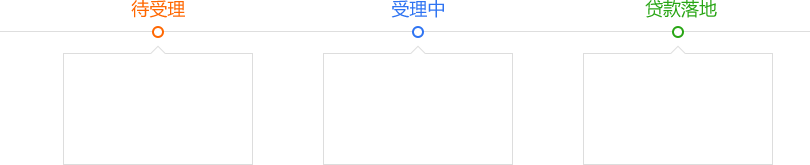
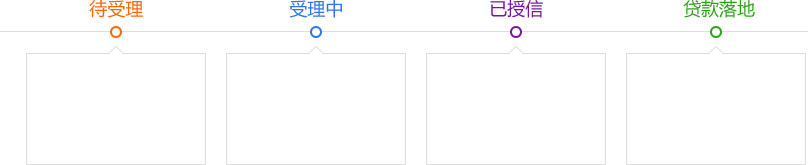
首页统计

diff --git a/web/public/kjd/css/style.css b/web/public/kjd/css/style.css
@@ -223,7 +223,7 @@ body.off .cbg { -webkit-animation: fadeIn 1s linear forwards; }*/
 .t1 { font-size:20px; color: #0180e9; padding: 20px 0 20px 25px;border-bottom: 1px solid #ddd; }
 .mbox .t1 { float: left; width: 150px; }
 .line { border-bottom: 2px solid #0180e9; width:41px; padding-top: 6px;}
-.nbox li { float: left; width: 33.33%;}
+.nbox li { float: left; width: 25%;}
 .nbox li .box { border-right:1px solid #ddd; height: 100%; padding: 20px 0 20px 25px; font-size: 18px; overflow: hidden;}
 .nbox li .box.noborder {border:none;}
 .nbox li .box .c { width:50px; height: 50px; border:1px solid #ffaf87; background: #ffe8d3; color: #ff6701; text-align: center; line-height: 50px; border-radius: 100%; float: left; margin-right: 25px; margin-top: 18px;  }
@@ -239,9 +239,9 @@ body.off .cbg { -webkit-animation: fadeIn 1s linear forwards; }*/
 .xbox .bank { float: left; width: 80px; font-size: 18px; text-align: center; }
 .xbox .bank img { margin-bottom: 5px; margin-top: -12px; }
 .xbox .bdata {float: left; width: 810px; height: 165px; background: url(../images/nbg.png) no-repeat; position: relative;}
-.xbox .bdata .text { position: absolute; width: 712px; height: 110px;left: 64px; top: 54px;}
+.xbox .bdata .text { position: absolute; width: 778px; height: 110px;left: 27px; top: 54px;}
 .xbox .bdata .text ul { margin-right: -70px; }
-.xbox .bdata .text li { float: left; width: 149px; padding: 7px 20px 0 20px; margin-right:70px; }
+.xbox .bdata .text li { float: left; width: 140px; padding: 7px 20px 0 20px; margin-right:20px; }
 .xbox li { margin-bottom: 50px;}
 
 .contwrap{width:49%;display:inline-block;vertical-align:middle;}

diff --git a/views/index/index.php b/views/index/index.php
@@ -83,6 +83,9 @@ use yii\helpers\Url;
                                                 <div class="liwrap"><i class="linkicon linkicon1"></i><span>区域分布</span></div>
                                             </li>
                                             <li>
+                                                <div class="liwrap"><i class="linkicon linkicon3"></i><span>科技企业类型</span></div>
+                                            </li>
+                                            <li>
                                                 <div class="liwrap"><i class="linkicon linkicon2"></i><span>行业分布</span></div>
                                             </li>
                                             <li class="last">
@@ -132,6 +135,30 @@ use yii\helpers\Url;
                                                     </div>
                                                 </div>
                                             </li>
+
+                                            <!-- 科技企业类型 -->
+                                            <li class="showContent">
+                                                <div class="show1">
+                                                    <div class="linkheader"><ul><li><a href="#">科技企业类型</a></li></ul></div>
+                                                    <div class="linkcontent">
+                                                        <div class="slider" style="width:890px;">
+                                                            <ul class="canslider">
+                                                                <li class="areaul">   
+                                                                    <?php foreach ($one_enterprise as $key => $vo): ?>
+                                                                        <div>
+                                                                            <span><?= $vo['name'] ?></span>
+                                                                            <p><?= $vo['count'] ?></p>
+                                                                            <a>查看名单</a>
+                                                                        </div>
+                                                                    <?php endforeach; ?>
+                                                                    <span class="areaulbor"></span>
+                                                                </li>
+                                                            </ul>
+                                                        </div>
+                                                    </div>
+                                                </div>
+                                            </li>
+
                                             <!-- 行业分布 -->
                                             <li class="showContent">
                                                 <div class="show1">
@@ -213,6 +240,9 @@ use yii\helpers\Url;
                                                 <div class="liwrap"><i class="linkicon linkicon1"></i><span>区域分布</span></div>
                                             </li>
                                             <li>
+                                                <div class="liwrap"><i class="linkicon linkicon3"></i><span>科技企业类型</span></div>
+                                            </li>
+                                            <li>
                                                 <div class="liwrap"><i class="linkicon linkicon2"></i><span>行业分布</span></div>
                                             </li>
                                             <li class="last">
@@ -262,6 +292,30 @@ use yii\helpers\Url;
                                                     </div>
                                                 </div>
                                             </li>
+
+                                            <!-- 科技企业类型 -->
+                                            <li class="showContent">
+                                                <div class="show1">
+                                                    <div class="linkheader"><ul><li><a href="#">科技企业类型</a></li></ul></div>
+                                                    <div class="linkcontent">
+                                                        <div class="slider" style="width:890px;">
+                                                            <ul class="canslider">
+                                                                <li class="areaul">   
+                                                                    <?php foreach ($two_enterprise as $key => $vo): ?>
+                                                                        <div>
+                                                                            <span><?= $vo['name'] ?></span>
+                                                                            <p><?= $vo['count'] ?></p>
+                                                                            <a>查看名单</a>
+                                                                        </div>
+                                                                    <?php endforeach; ?>
+                                                                    <span class="areaulbor"></span>
+                                                                </li>
+                                                            </ul>
+                                                        </div>
+                                                    </div>
+                                                </div>
+                                            </li>
+
                                             <!-- 行业分布 -->
                                             <li class="showContent">
                                                 <div class="show1">
@@ -380,8 +434,17 @@ use yii\helpers\Url;
                                                                 </div>
                                                             </li>
                                                             <li>
+                                                                <div class="box">
+                                                                    <div class="c nc3">授信</div>
+                                                                    <div class="text">
+                                                                        <div class="text1">691<span>家</span></div>
+                                                                        <div class="text2">￥5000<span>万</span></div>
+                                                                    </div>
+                                                                </div>
+                                                            </li>
+                                                            <li>
                                                                 <div class="box noborder">
-                                                                    <div class="c nc3">发放</div>
+                                                                    <div class="c nc4">发放</div>
                                                                     <div class="text">
                                                                         <div class="text1">691<span>家</span></div>
                                                                         <div class="text2">￥5000<span>万</span></div>
@@ -406,6 +469,10 @@ use yii\helpers\Url;
                                                                 <div class="bdata">
                                                                     <div class="text">
                                                                         <ul>
+                                                                            <li>
+                                                                                <div class="text1">691<span>家</span></div>
+                                                                                <div class="text2">￥5000<span>万</span></div>
+                                                                            </li>
                                                                             <li>
                                                                                 <div class="text1">691<span>家</span></div>
                                                                                 <div class="text2">￥5000<span>万</span></div>

diff --git a/controllers/IndexController.php b/controllers/IndexController.php
@@ -9,7 +9,9 @@ use app\models\Advert;
 use app\models\WorkflowGroup;
 use app\models\EnterpriseBase;
 use app\models\EnterpriseLoan;
+use app\models\EnterpriseDescribe;
 use app\models\Area;
+use yii\db\Expression;
 
 class IndexController extends CommonController
 {
@@ -39,6 +41,11 @@ class IndexController extends CommonController
         {
             $one_town_list[$key]['count'] = EnterpriseBase::apply_all_statistics(['town_id' => $vo['id']]);
         }
+        $one_enterprise = Yii::$app->params['enterprise'];
+        foreach ($one_enterprise as $key => $vo)
+        {
+            $one_enterprise[$key]['count'] = EnterpriseDescribe::find()->where(new Expression('FIND_IN_SET(' . $vo['id'] . ', enterprise_type)'))->count();
+        }
         $one_industry = Yii::$app->params['industry'];
         foreach ($one_industry as $key => $vo)
         {
@@ -52,6 +59,12 @@ class IndexController extends CommonController
         {
             $two_town_list[$key]['count'] = EnterpriseBase::apply_in_statistics(['wl.group_id' => $this->group_id, 'wl.result' => 'finish', 'eb.town_id' => $vo['id']]);
         }
+        $two_enterprise = Yii::$app->params['enterprise'];
+        foreach ($two_enterprise as $key => $vo)
+        {
+            $base_ids = EnterpriseDescribe::find()->select('base_id')->where(new Expression('FIND_IN_SET(' . $vo['id'] . ', enterprise_type)'))->asArray()->column();
+            $two_enterprise[$key]['count'] = EnterpriseBase::apply_in_statistics(['and', ['wl.group_id' => $this->group_id, 'wl.result' => 'finish'], ['in', 'eb.base_id', $base_ids]]);
+        }
         $two_industry = Yii::$app->params['industry'];
         foreach ($two_industry as $key => $vo)
         {
@@ -64,8 +77,8 @@ class IndexController extends CommonController
         $four_num = EnterpriseLoan::find()->alias('el')->leftJoin('{{%workflow_log}} wl', 'el.base_id=wl.app_id')->where(['wl.group_id' => $this->loan_group_id, 'wl.result' => 'grant'])->count();
         return $this->render("index", [
                     'news' => $news, 'logo' => $logo,
-                    'one_num' => $one_num, 'one_town_list' => $one_town_list, 'one_industry' => $one_industry, 'one_company' => $one_company,
-                    'two_num' => $two_num, 'two_town_list' => $two_town_list, 'two_industry' => $two_industry, 'two_company' => $two_company,
+                    'one_num' => $one_num, 'one_town_list' => $one_town_list, 'one_enterprise' => $one_enterprise, 'one_industry' => $one_industry, 'one_company' => $one_company,
+                    'two_num' => $two_num, 'two_town_list' => $two_town_list, 'two_enterprise' => $two_enterprise,  'two_industry' => $two_industry, 'two_company' => $two_company,
                     'three_num' => $three_num,
                     'four_num' => $four_num
         ]);

diff --git a/models/EnterpriseDescribe.php b/models/EnterpriseDescribe.php
@@ -33,7 +33,7 @@ class EnterpriseDescribe extends ActiveRecord
                 ['equity_num', 'number', 'message' => '{attribute}必须为数字'],
                 ['user_id', 'default', 'value' => Yii::$app->session['member']['userid']],
                 ['base_id', 'default', 'value' => EnterpriseBase::getBaseId()],
-                [['profession', 'qualification_certificate'], 'safe']
+                [['profession', 'enterprise_type', 'qualification_certificate'], 'safe']
         ];
     }
 
@@ -76,6 +76,7 @@ class EnterpriseDescribe extends ActiveRecord
             $data['EnterpriseDescribe']['qualification_certificate'] = json_encode($arr_qualification);
             unset($data['u_zizhi_enterprise'], $data['u_zizhi_china_enterprise'], $data['u_zizhi_file'], $data['u_zizhi_file_name']);
         }
+        $data['EnterpriseDescribe']['enterprise_type'] = implode(',', $u_zizhi_enterprise);
         # 处理资质~~~end
         if ($this->load($data) && $this->save())
         {
